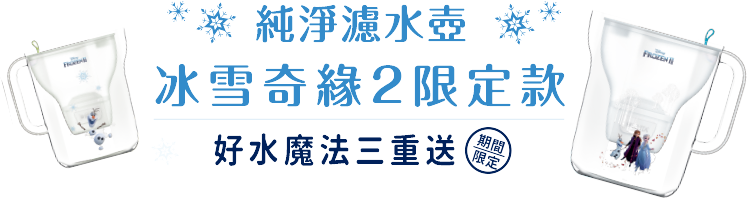
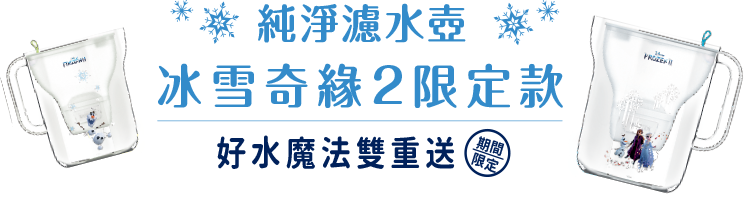
remove gift 2

diff --git a/index.html b/index.html
@@ -83,7 +83,7 @@
                     <div class="nav_item">了解產品</div>
                 </a>
                 <a href="#triple" onClick="ga('send', 'event', 'Link', 'Click', 'menu_好水三重送')">
-                    <div class="nav_item">好水三重送</div>
+                    <div class="nav_item">好水雙重送</div>
                 </a>
                 <a href="https://tw-brita.com/Jug02" target="_blank" onClick="ga('send', 'event', 'Link', 'Click', 'menu_立即購買')">
                     <div class="nav_item">立即購買</div>
@@ -238,7 +238,7 @@
                         <img src="images/gift_1_n.png" width="335px" alt="" />
                     </div>
                 </div>
-                <div class="gift_row animated">
+                <!-- <div class="gift_row animated">
                     <div class="left">
                         <div class="gift_title_div">
                             <p class="gift_title">
@@ -261,13 +261,13 @@
                     <div class="right">
                         <img src="images/gift_2_n.png" width="330px" alt="" />
                     </div>
-                </div>
+                </div> -->
                 <div class="gift_row animated">
                     <div class="left">
                         <div class="gift_title_div">
                             <p class="gift_title">
                                 <span class="gift_title_span">
-                                    <span class="title_number">3.</span>
+                                    <span class="title_number">2.</span>
                                     <span class="title_text">會員加碼送濾芯</span>
                                 </span>
                             </p>

diff --git a/css/main.css b/css/main.css
@@ -258,7 +258,7 @@ a:focus {
     background: url("../images/snowflake.png");;
 	background-repeat: no-repeat;
 	background-position: top center;
-	height: 860px;
+	height: 600px;
 	position: relative;
 	top: -440px;
 }
@@ -604,7 +604,7 @@ a:focus {
 
 	#triple {
 		top: -590px;
-		height: 1520px;
+		height: 940px;
 	}
 	#triple > .text_div > img {
 		width: 94%;
@@ -665,7 +665,7 @@ a:focus {
 
 	#triple {
 		top: -690px;
-		height: 1396px;
+		height: 810px;
 	}
 	#triple > .text_div > img {
 		width: 100%;
